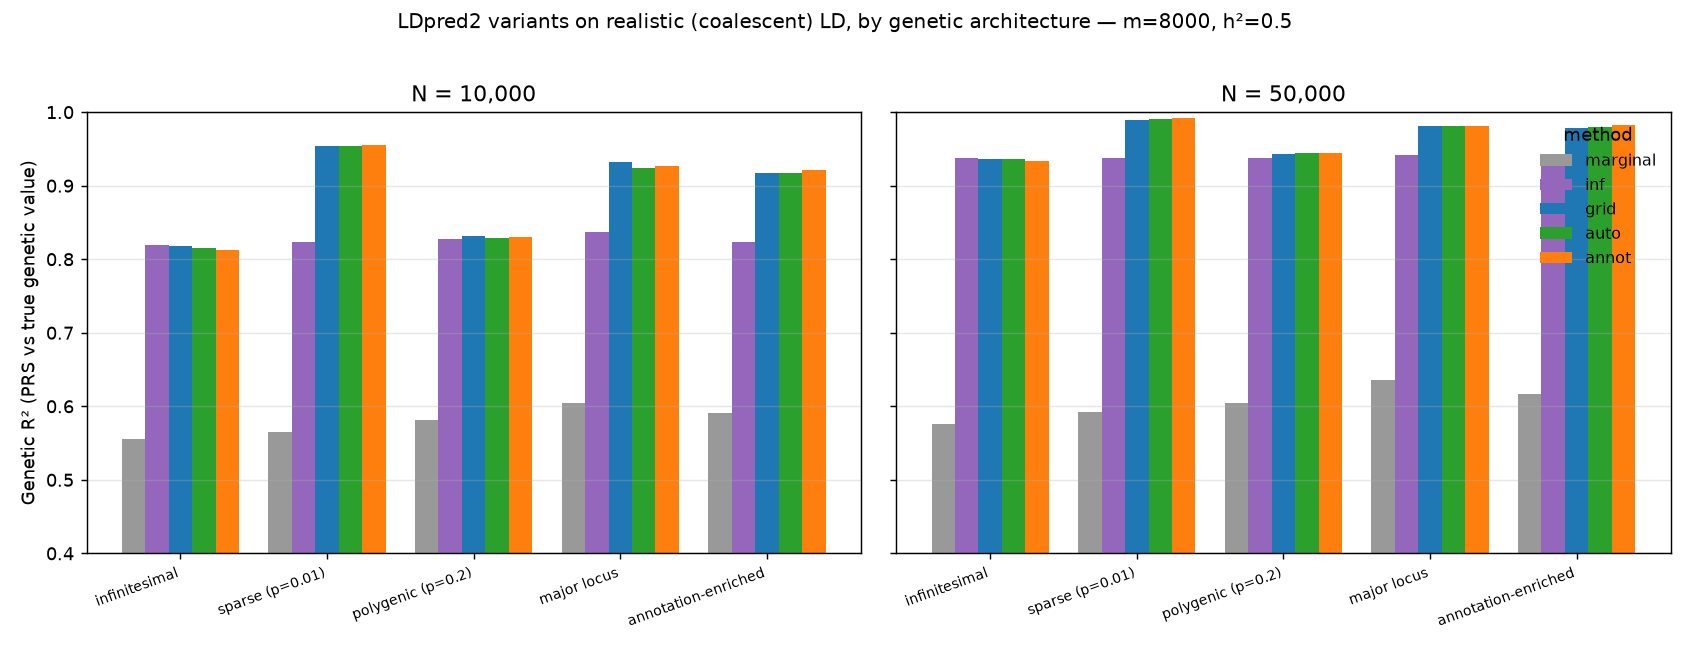
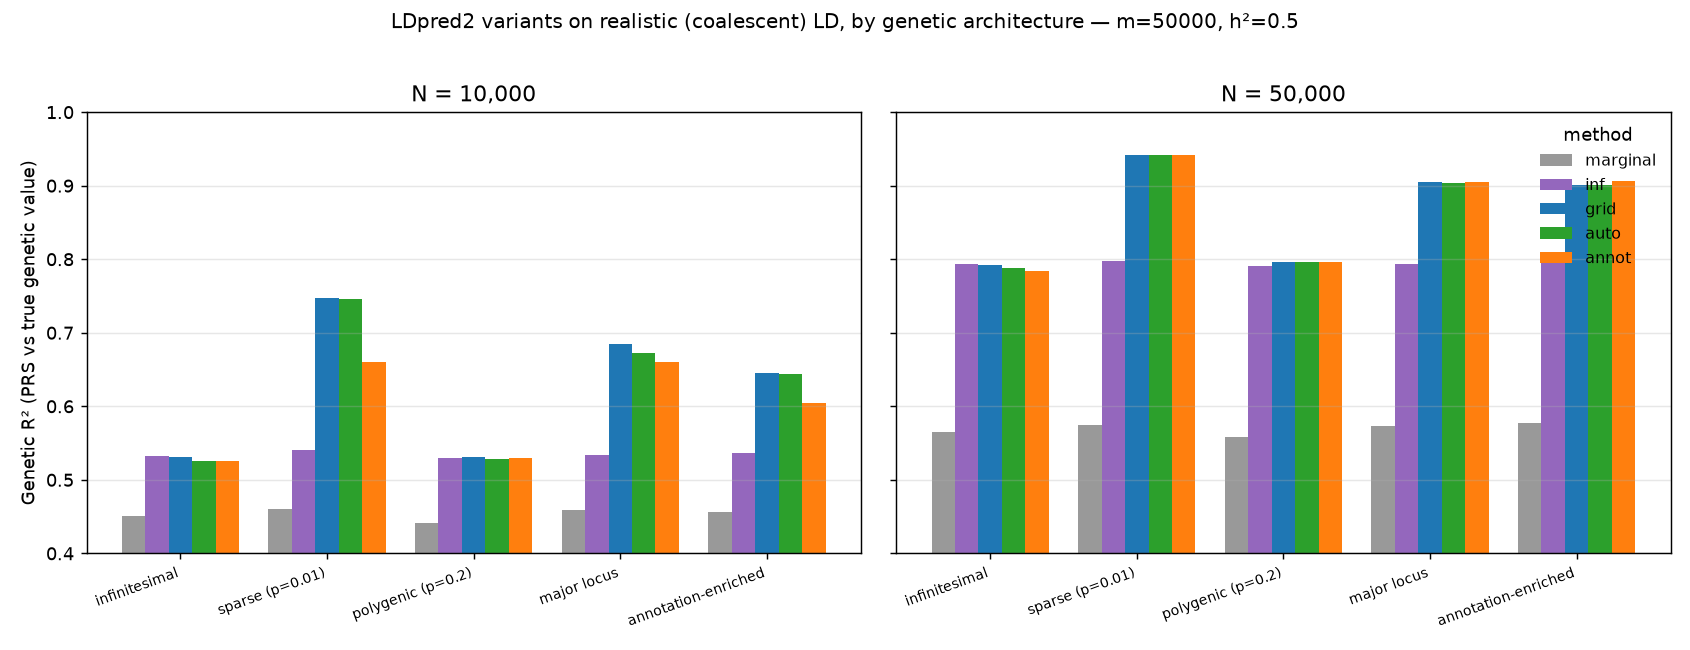
Scale architecture benchmark to 50k SNPs
Run the methods-by-architecture benchmark on the full coalescent LD
library (100 distinct blocks of 500 = 50,000 SNPs) instead of 8,000,
at two power levels (N=10k, N=50k), and refresh the CSV, plot and docs.

Notable: at high power (N=50k) `annot` tracks grid/auto and edges ahead
when the annotation is informative, but at low power with 50k SNPs the
annotation learner underperforms plain grid/auto on concentrated
architectures (jointly learning global sparsity + the annotation map is
noisier at low per-SNP power). Documented honestly in docs/benchmarks.md.

Claude-Session: https://claude.ai/code/session_019ZNt6YirmpuLAT7kkG2z6d

diff --git a/benchmarks/bench_methods.py b/benchmarks/bench_methods.py
@@ -11,7 +11,7 @@ from pyldpred2 import ldpred2_by_blocks, ldpred2_auto_annot_blocks
 
 LIB = np.load("ld_library.npz")
 libR = LIB["R"].astype(np.float64)          # (100, 500, 500)
-NB, K = 16, 500
+NB, K = 100, 500
 M = NB * K
 H2 = 0.5
 REPS = 5

diff --git a/benchmarks/plot_methods_arch.py b/benchmarks/plot_methods_arch.py
@@ -36,7 +36,7 @@ for ax, N in zip(axes, Ns):
 axes[0].set_ylabel("Genetic R² (PRS vs true genetic value)")
 axes[-1].legend(frameon=False, fontsize=9, title="method")
 fig.suptitle("LDpred2 variants on realistic (coalescent) LD, by genetic "
-             "architecture — m=8000, h²=0.5", fontsize=11)
+             "architecture — m=50000, h²=0.5", fontsize=11)
 fig.tight_layout(rect=(0, 0, 1, 0.96))
 fig.savefig("methods_arch.png", dpi=130)
 print("wrote methods_arch.png")

diff --git a/docs/benchmarks.md b/docs/benchmarks.md
@@ -70,14 +70,15 @@ real-data quirks the simulation can't, but needs multi-GB inputs.)
 
 ## Methods by genetic architecture (realistic LD)
 
-How do the LDpred2 variants compare across genetic architectures? Each block is
-a coalescent/msprime LD matrix (m=8000, h²=0.5); for each architecture we
-simulate true effects, generate summary statistics, fit every method, and
-measure the **genetic R²** — the squared correlation between the PRS and the
-true genetic value under population LD, `(β̂ᵀRβ)² / [(β̂ᵀRβ̂)(βᵀRβ)]` — averaged
-over 5 replicates. `grid` is given the oracle `(h²,p)`; `annot` gets one
-functional annotation (informative only in the last row). Regenerate with
-`benchmarks/bench_methods.py` / `benchmarks/plot_methods_arch.py`.
+How do the LDpred2 variants compare across genetic architectures? The genome is
+100 distinct coalescent/msprime LD blocks of 500 SNPs (m=50,000, h²=0.5); for
+each architecture we simulate true effects, generate summary statistics, fit
+every method, and measure the **genetic R²** — the squared correlation between
+the PRS and the true genetic value under population LD,
+`(β̂ᵀRβ)² / [(β̂ᵀRβ̂)(βᵀRβ)]` — averaged over 5 replicates. `grid` is given the
+oracle `(h²,p)`; `annot` gets one functional annotation (informative only in the
+last row). Regenerate with `benchmarks/bench_methods.py` /
+`benchmarks/plot_methods_arch.py`.
 
 ![Methods by architecture](../benchmarks/methods_arch_benchmark.png)
 
@@ -85,31 +86,44 @@ Genetic R² at **N = 10,000** (the lower-power regime separates the methods):
 
 | architecture | marginal | inf | grid | auto | annot |
 |--------------|---------:|----:|-----:|-----:|------:|
-| infinitesimal       | 0.555 | **0.820** | 0.818 | 0.816 | 0.813 |
-| sparse (p=0.01)     | 0.565 | 0.823 | 0.953 | 0.954 | **0.955** |
-| polygenic (p=0.2)   | 0.582 | 0.827 | **0.831** | 0.829 | 0.830 |
-| major locus         | 0.605 | 0.836 | **0.932** | 0.924 | 0.927 |
-| annotation-enriched | 0.591 | 0.823 | 0.917 | 0.918 | **0.921** |
+| infinitesimal       | 0.451 | **0.532** | 0.531 | 0.526 | 0.526 |
+| sparse (p=0.01)     | 0.460 | 0.541 | **0.747** | 0.746 | 0.661 |
+| polygenic (p=0.2)   | 0.442 | 0.530 | **0.530** | 0.528 | 0.529 |
+| major locus         | 0.459 | 0.533 | **0.685** | 0.672 | 0.661 |
+| annotation-enriched | 0.457 | 0.536 | **0.646** | 0.644 | 0.604 |
+
+Genetic R² at **N = 50,000** (higher power; everything shifts up and compresses):
+
+| architecture | marginal | inf | grid | auto | annot |
+|--------------|---------:|----:|-----:|-----:|------:|
+| infinitesimal       | 0.565 | **0.794** | 0.792 | 0.789 | 0.784 |
+| sparse (p=0.01)     | 0.575 | 0.797 | 0.942 | 0.942 | **0.942** |
+| polygenic (p=0.2)   | 0.559 | 0.791 | 0.797 | **0.797** | 0.796 |
+| major locus         | 0.574 | 0.794 | **0.905** | 0.903 | 0.905 |
+| annotation-enriched | 0.577 | 0.796 | 0.901 | 0.901 | **0.906** |
 
 Takeaways:
 
-- **The raw marginal PRS is always far behind** (~0.55–0.61) — the LD adjustment
-  is the first-order win.
-- **`inf` is architecture-robust but flat** (~0.82): it is the best model *only*
-  under a truly infinitesimal architecture, and leaves large gains on the table
-  whenever the trait is sparse or has major loci.
+- **The raw marginal PRS is always far behind** — the LD adjustment is the
+  first-order win (≈0.45→0.53 at N=10k, ≈0.57→0.79 at N=50k).
+- **`inf` is architecture-robust but flat**: it is the best model *only* under a
+  truly infinitesimal (or near-infinitesimal polygenic) architecture, and leaves
+  large gains on the table whenever the trait is sparse or has major loci.
 - **`grid`/`auto` win decisively on sparse and major-locus** architectures
-  (0.93–0.95 vs 0.82 for `inf`) — the spike-and-slab captures concentrated
-  signal.
-- **`auto` matches the oracle `grid`** (which is handed the true `h²` and `p`)
-  without any hyper-parameters — the practical default.
-- **`annot` ≈ `auto` everywhere, and edges ahead when the annotation is
-  informative** (annotation-enriched row). The margin is small here (one binary
-  annotation, near-saturation at high N) but consistent and never negative.
-
-At N = 50,000 the same ordering holds with everything shifted up and compressed
-(`inf` ~0.94; sparse/major-locus/annotated ~0.98–0.99) — see the right panel and
-`benchmarks/methods_arch_benchmark.csv`.
+  (e.g. 0.75/0.69 vs 0.53 for `inf` at N=10k) — the spike-and-slab captures
+  concentrated signal. **`auto` matches the oracle `grid`** (handed the true
+  `h²` and `p`) without any hyper-parameters — the practical default.
+- **`annot` is power-dependent.** At **N = 50,000** it tracks `auto`/`grid` and
+  edges ahead when the annotation is informative (annotation-enriched row,
+  0.906 vs 0.901). But at **N = 10,000 with 50k SNPs** the annotation learner
+  *underperforms* plain `grid`/`auto` on the concentrated architectures (sparse
+  0.66 vs 0.75; major-locus 0.66 vs 0.69; even the enriched row 0.60 vs 0.65).
+  Learning the global sparsity *and* the annotation map from the data is harder
+  at low per-SNP power and large `m`, so the self-tuned annotation prior is
+  noisier than a well-behaved fixed-`p` sampler there. The lesson matches
+  SBayesRC practice: annotation learning pays off with **many** calibrated
+  annotations and adequate power, not a single binary annotation in the
+  low-power corner — and it is not a free default below it.
 
 ## Genotype-level simulation
 